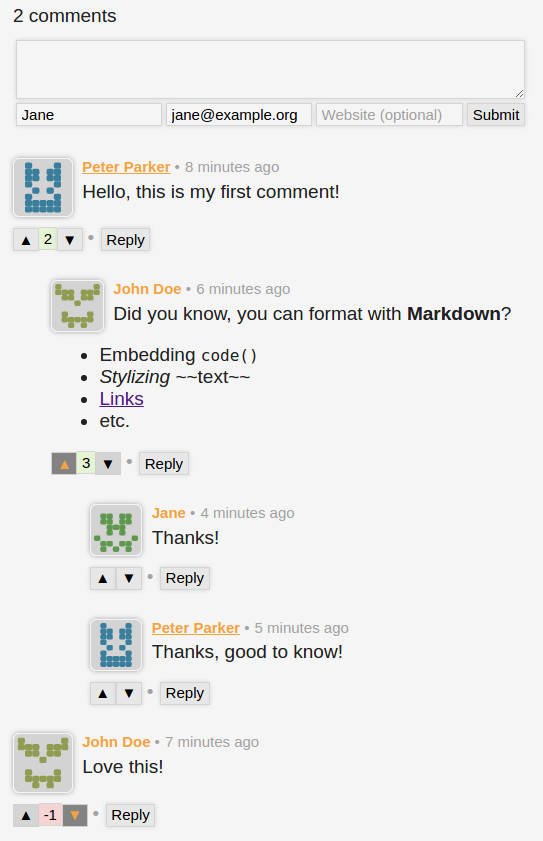
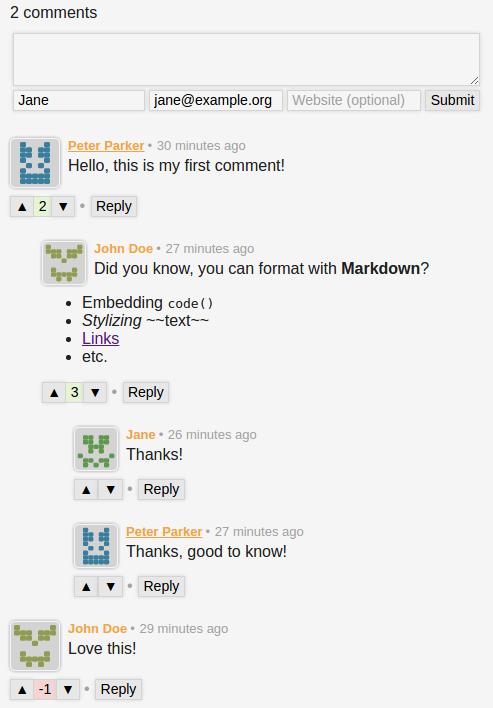
Adjust font size for in-page controls.

diff --git a/public/diskuto.css b/public/diskuto.css
@@ -1,5 +1,5 @@
 .diskuto table, .diskuto table input, .diskuto table button { width: 100%; }
-.diskuto button, .diskuto input, .diskuto textarea { box-sizing: border-box; padding: 1pt 0.3em; font-family: inherit; font-size: 80%; color: black; line-height: normal; }
+.diskuto button, .diskuto input, .diskuto textarea { box-sizing: border-box; padding: 1pt 0.3em; font-family: inherit; font-size: 90%; color: black; line-height: normal; }
 .diskuto .avatar { float: left; margin-right: 0.5em; margin-bottom: 0.5em; border-radius: 5px; border: 1px solid #fff; box-shadow: 0 0 5px 0 #aaa; width: 48px; height: 48px; }
 .diskuto .comment .comment .avatar { width: 42px; height: 42px; }
 .diskuto textarea { width: 100%; resize: vertical; }
@@ -14,7 +14,7 @@
 .diskuto .vote-down { display: inline-block; }
 .diskuto .vote-count {
 	box-sizing: border-box;
-	font-size: 80%;
+	font-size: 90%;
 	padding: 1pt 0.3em;
 	color: black;
 	 border-top: 1px solid #ddd; border-bottom: 1px solid #ddd;
